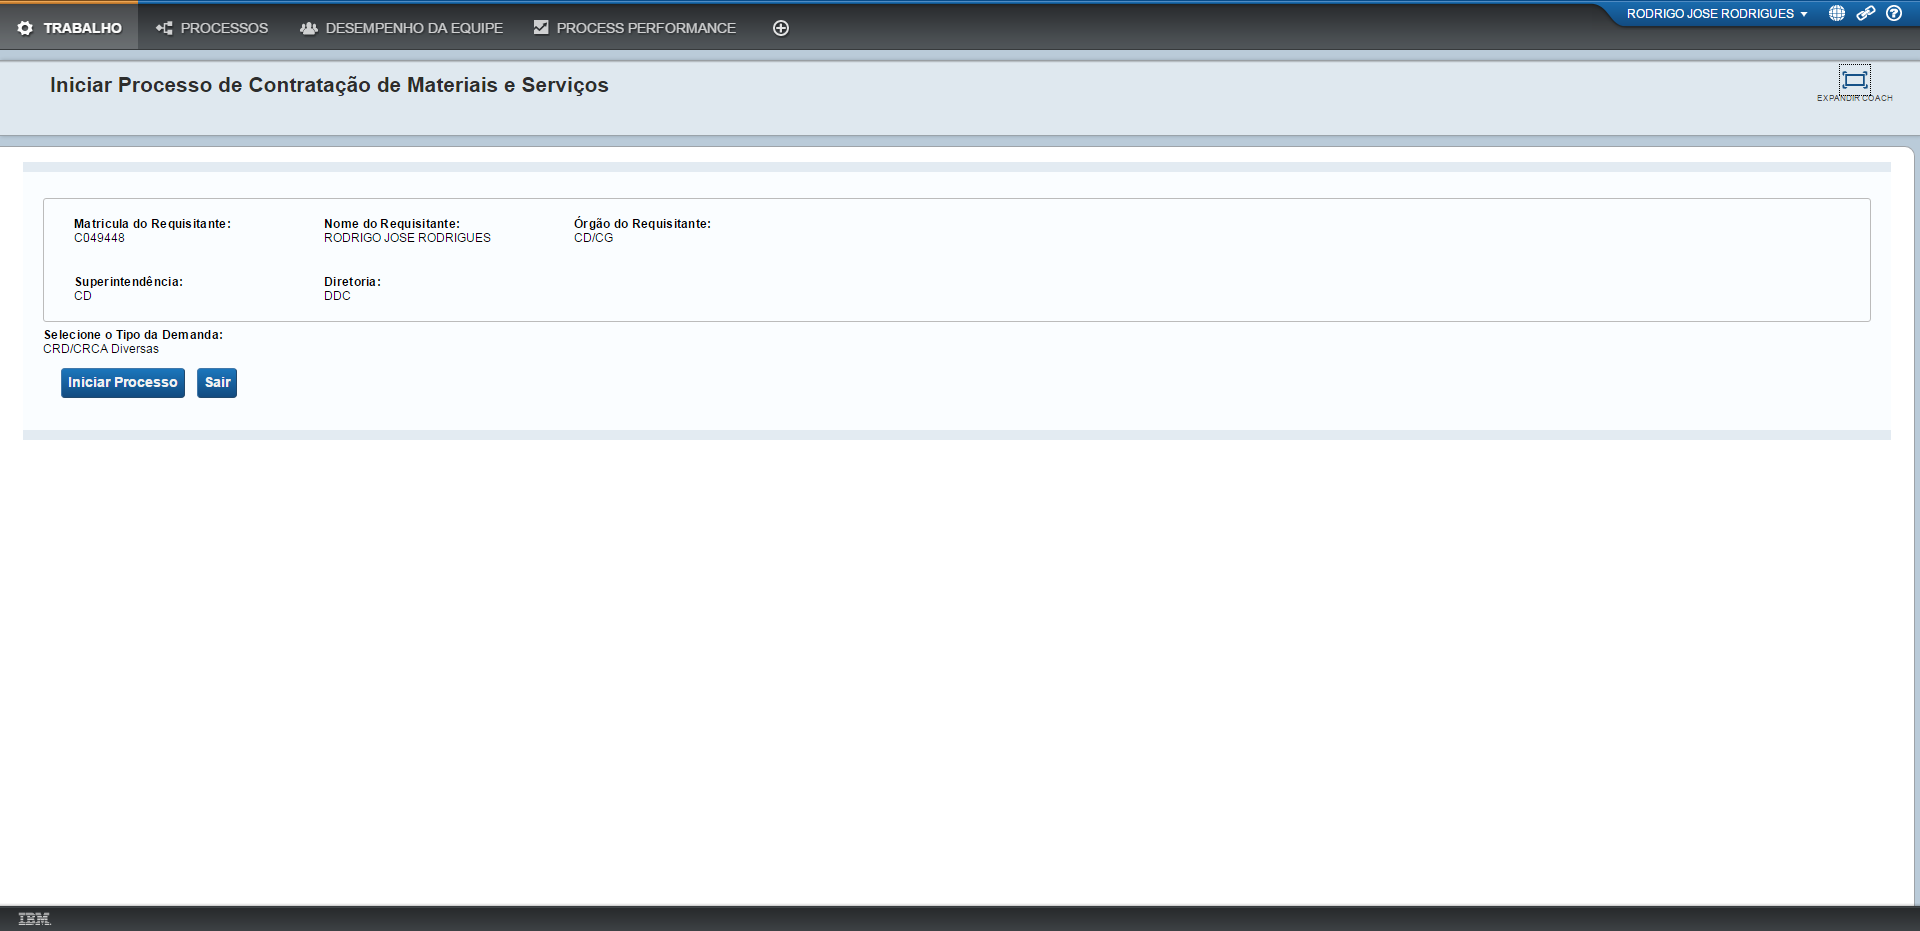
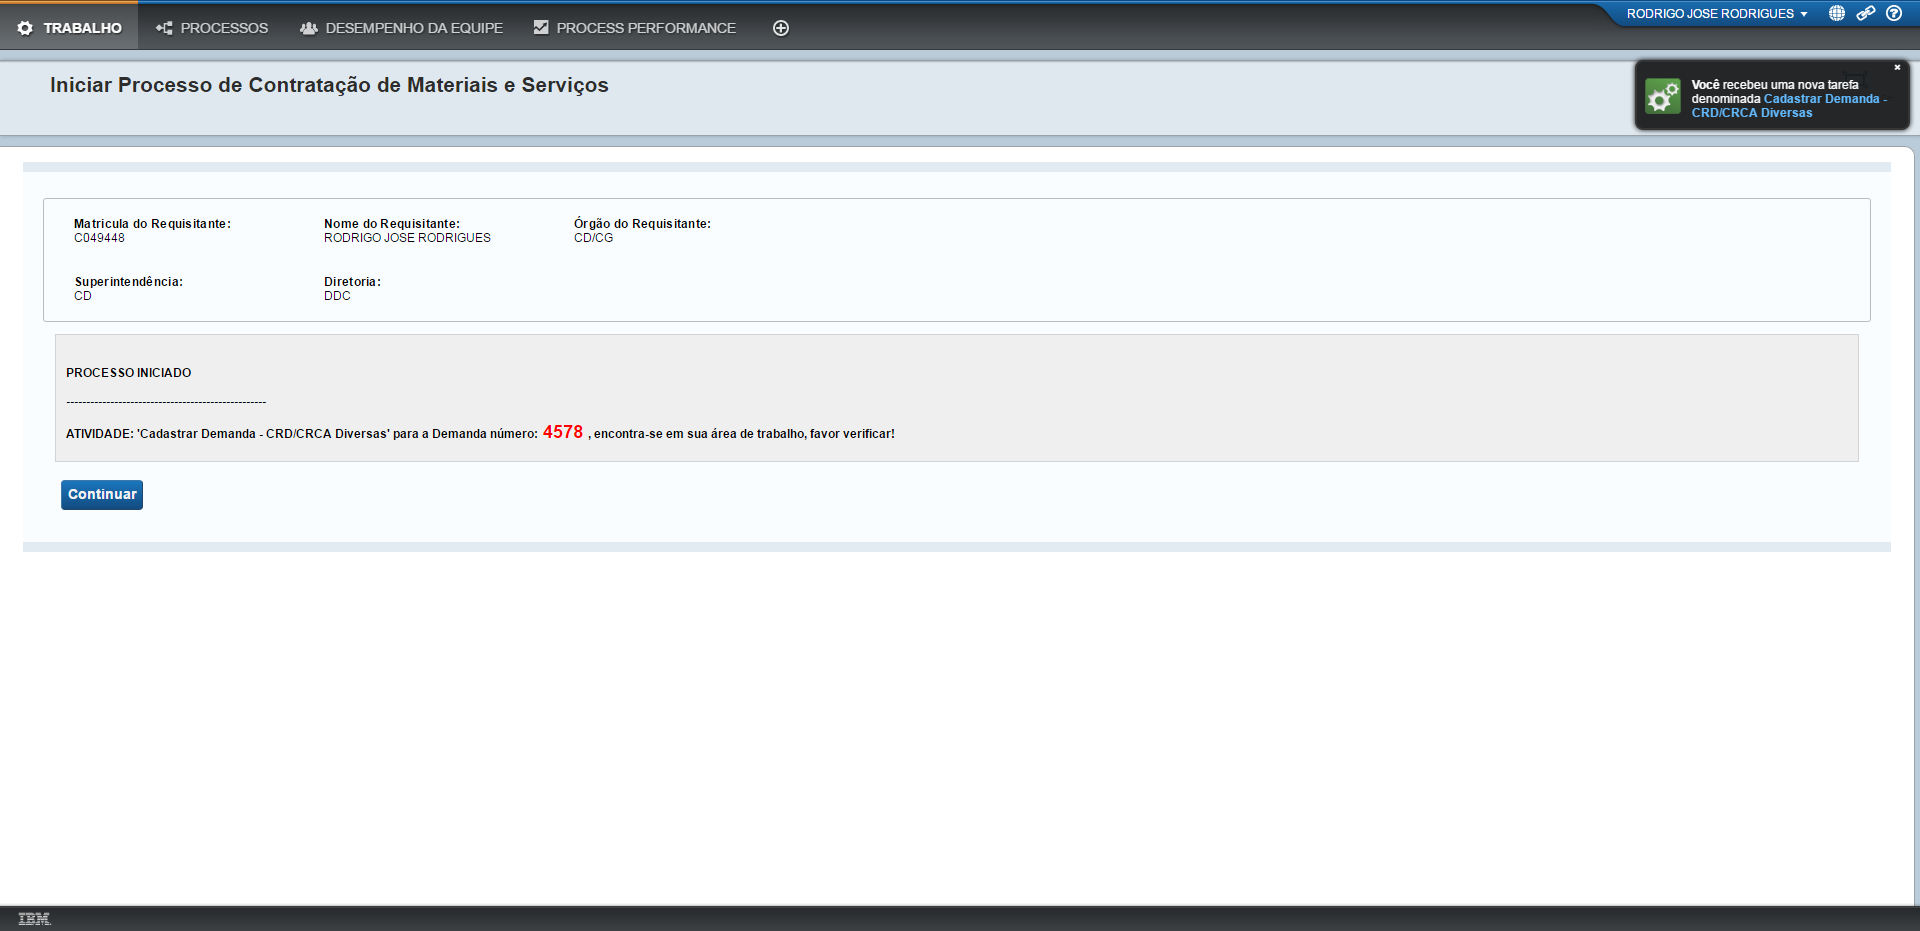
acesso ao iframe para captura de texto, feature 2

Changed region(s): [[0.0, 0.3426, 1.0, 0.5918], [0.8438, 0.0623, 1.0, 0.1557]]

diff --git a/cucumber/features_report.html b/cucumber/features_report.html
@@ -471,5 +471,5 @@ e&&e.document?e.document.compatMode==="CSS1Compat"&&e.document.documentElement["
   }
 
 </script></head><body><!-- Step count 0--><div class="cucumber"><div id="cucumber-header"><div id="label"><h1>Cucumber Features</h1></div><div id="summary"><p id="totals"></p><p id="duration"></p><div id="expand-collapse"><p id="expander">Expand All</p><p id="collapser">Collapse All</p></div></div></div><div class="feature"><pre class="comment"># language: pt<br/></pre><span class="tag">@hooks_login</span> <span class="tag">@login</span><h2><span class="val">Funcionalidade: Login PCMS</span></h2><p class="narrative">Eu, como usuário do PCMS<br/>Desejo realizar Login<br/>Para que eu possa ter acesso ao sistema<br/></p><div class='scenario'><span class="scenario_file">features/specifications/1_login.feature:12</span><h3 id="scenario_1"><span class="keyword">Cenario:</span> <span class="val">Login com sucesso</span></h3><ol><li class="step message">O email utilizado é c049448</li><li class="step message">A senha utilizada é welcome1</li><li id='' class='step passed'><div class="step_name"><span class="keyword">Dado </span><span class="step val">que eu acesse a página de Login</span></div><div class="step_file"><span>features/step_definitions/1_login.rb:1</span></div></li> <script type="text/javascript">moveProgressBar('100.0');</script><li id='' class='step passed'><div class="step_name"><span class="keyword">Quando </span><span class="step val">eu informar os campos obrigatórios</span></div><div class="step_file"><span>features/step_definitions/1_login.rb:5</span></div></li> <script type="text/javascript">moveProgressBar('100.0');</script><li id='' class='step passed'><div class="step_name"><span class="keyword">E </span><span class="step val">Clicar em Logar</span></div><div class="step_file"><span>features/step_definitions/1_login.rb:10</span></div></li> <script type="text/javascript">moveProgressBar('100.0');</script><li id='' class='step passed'><div class="step_name"><span class="keyword">Entao </span><span class="step val">o meu Login e efetuado com sucesso</span></div><div class="step_file"><span>features/step_definitions/1_login.rb:14</span></div></li> <script type="text/javascript">moveProgressBar('100.0');</script><span class="embed"><a href="" onclick="img=document.getElementById('img_0'); img.style.display = (img.style.display == 'none' ? 'block' : 'none');return false">SCREENSHOT DO TESTE</a><br>&nbsp;
-          <img id="img_0" style="display: none" src="screenshots/test_passed/run_2017_03_30/login_com_sucesso.png"/></span></ol></div></div><div class="feature"><pre class="comment"># language: pt<br/></pre><span class="tag">@hooks_meutrabalho</span> <span class="tag">@hooks_login</span> <span class="tag">@iniciarprocesso</span><h2><span class="val">Funcionalidade: Iniciar Processo de Contratação de Materiais e Serviços</span></h2><p class="narrative">Eu, como usuário do PCMS<br/>quero iniciar um processo de contratação de materiais e serviços<br/></p><div class='scenario'><span class="scenario_file">features/specifications/2_iniciar_processo.feature:12</span><h3 id="scenario_2"><span class="keyword">Cenario:</span> <span class="val">Criar a atividade Iniciar Processo de Contratação de Materiais e Serviços</span></h3><ol><li class="step message">O email utilizado é c049448</li><li class="step message">A senha utilizada é welcome1</li><li id='' class='step passed'><div class="step_name"><span class="keyword">Dado </span><span class="step val">que eu estou no painel Meu Trabalho</span></div><div class="step_file"><span>features/step_definitions/2_iniciar_processo.rb:1</span></div></li> <script type="text/javascript">moveProgressBar('100.0');</script><li id='' class='step passed'><div class="step_name"><span class="keyword">Quando </span><span class="step val">eu clicar no link Iniciar Processo de Contratação de Materiais e Serviços</span></div><div class="step_file"><span>features/step_definitions/2_iniciar_processo.rb:5</span></div></li> <script type="text/javascript">moveProgressBar('100.0');</script><li id='' class='step passed'><div class="step_name"><span class="keyword">Entao </span><span class="step val">clico em Iniciar Processo</span></div><div class="step_file"><span>features/step_definitions/2_iniciar_processo.rb:9</span></div></li> <script type="text/javascript">moveProgressBar('100.0');</script><span class="embed"><a href="" onclick="img=document.getElementById('img_1'); img.style.display = (img.style.display == 'none' ? 'block' : 'none');return false">SCREENSHOT DO TESTE</a><br>&nbsp;
-          <img id="img_1" style="display: none" src="screenshots/test_passed/run_2017_03_30/criar_a_atividade_iniciar_processo_de_contratação_de_materiais_e_serviços.png"/></span></ol></div></div><script type="text/javascript">document.getElementById('duration').innerHTML = "Finished in <strong>0m27.672s seconds</strong>";</script><script type="text/javascript">document.getElementById('totals').innerHTML = "2 scenarios (2 passed)<br />7 steps (7 passed)";</script></div></body></html>
+          <img id="img_0" style="display: none" src="screenshots/test_passed/run_2017_03_31/login_com_sucesso.png"/></span></ol></div></div><div class="feature"><pre class="comment"># language: pt<br/></pre><span class="tag">@hooks_meutrabalho</span> <span class="tag">@hooks_login</span> <span class="tag">@iniciarprocesso</span><h2><span class="val">Funcionalidade: Iniciar Processo de Contratação de Materiais e Serviços</span></h2><p class="narrative">Eu, como usuário do PCMS<br/>quero iniciar um processo de contratação de materiais e serviços<br/></p><div class='scenario'><span class="scenario_file">features/specifications/2_iniciar_processo.feature:12</span><h3 id="scenario_2"><span class="keyword">Cenario:</span> <span class="val">Criar a atividade Iniciar Processo de Contratação de Materiais e Serviços</span></h3><ol><li class="step message">O email utilizado é c049448</li><li class="step message">A senha utilizada é welcome1</li><li id='' class='step passed'><div class="step_name"><span class="keyword">Dado </span><span class="step val">que eu estou no painel Meu Trabalho</span></div><div class="step_file"><span>features/step_definitions/2_iniciar_processo.rb:1</span></div></li> <script type="text/javascript">moveProgressBar('100.0');</script><li id='' class='step passed'><div class="step_name"><span class="keyword">Quando </span><span class="step val">eu clicar no link Iniciar Processo de Contratação de Materiais e Serviços</span></div><div class="step_file"><span>features/step_definitions/2_iniciar_processo.rb:5</span></div></li> <script type="text/javascript">moveProgressBar('100.0');</script><li id='' class='step passed'><div class="step_name"><span class="keyword">Entao </span><span class="step val">clico em Iniciar Processo</span></div><div class="step_file"><span>features/step_definitions/2_iniciar_processo.rb:9</span></div></li><li class="step message">4606</li> <script type="text/javascript">moveProgressBar('100.0');</script><span class="embed"><a href="" onclick="img=document.getElementById('img_1'); img.style.display = (img.style.display == 'none' ? 'block' : 'none');return false">SCREENSHOT DO TESTE</a><br>&nbsp;
+          <img id="img_1" style="display: none" src="screenshots/test_passed/run_2017_03_31/criar_a_atividade_iniciar_processo_de_contratação_de_materiais_e_serviços.png"/></span></ol></div></div><script type="text/javascript">document.getElementById('duration').innerHTML = "Finished in <strong>0m17.268s seconds</strong>";</script><script type="text/javascript">document.getElementById('totals').innerHTML = "2 scenarios (2 passed)<br />7 steps (7 passed)";</script></div></body></html>

diff --git a/cucumber/features/step_definitions/2_iniciar_processo.rb b/cucumber/features/step_definitions/2_iniciar_processo.rb
@@ -12,11 +12,15 @@ Entao(/^clico em Iniciar Processo$/) do
   sleep 1
 
   # aqui entra no frame desejado, dentro do frame que está o elemento
+  # page.driver.browser.switch_to.frame 1
   page.driver.browser.switch_to.frame 1
   click_button 'Iniciar Processo'
-
+  sleep 1
+  #entra no iframe e busca o número do protocolo
+  within_frame('_bpmEditor_0_iframe') do
+    protocolo = find('div').find('font').text
+    puts protocolo
+  end
   #Essa linha faz sair do frame acima
   #page.driver.browser.switch_to.default_content
-
-  sleep 10
 end
